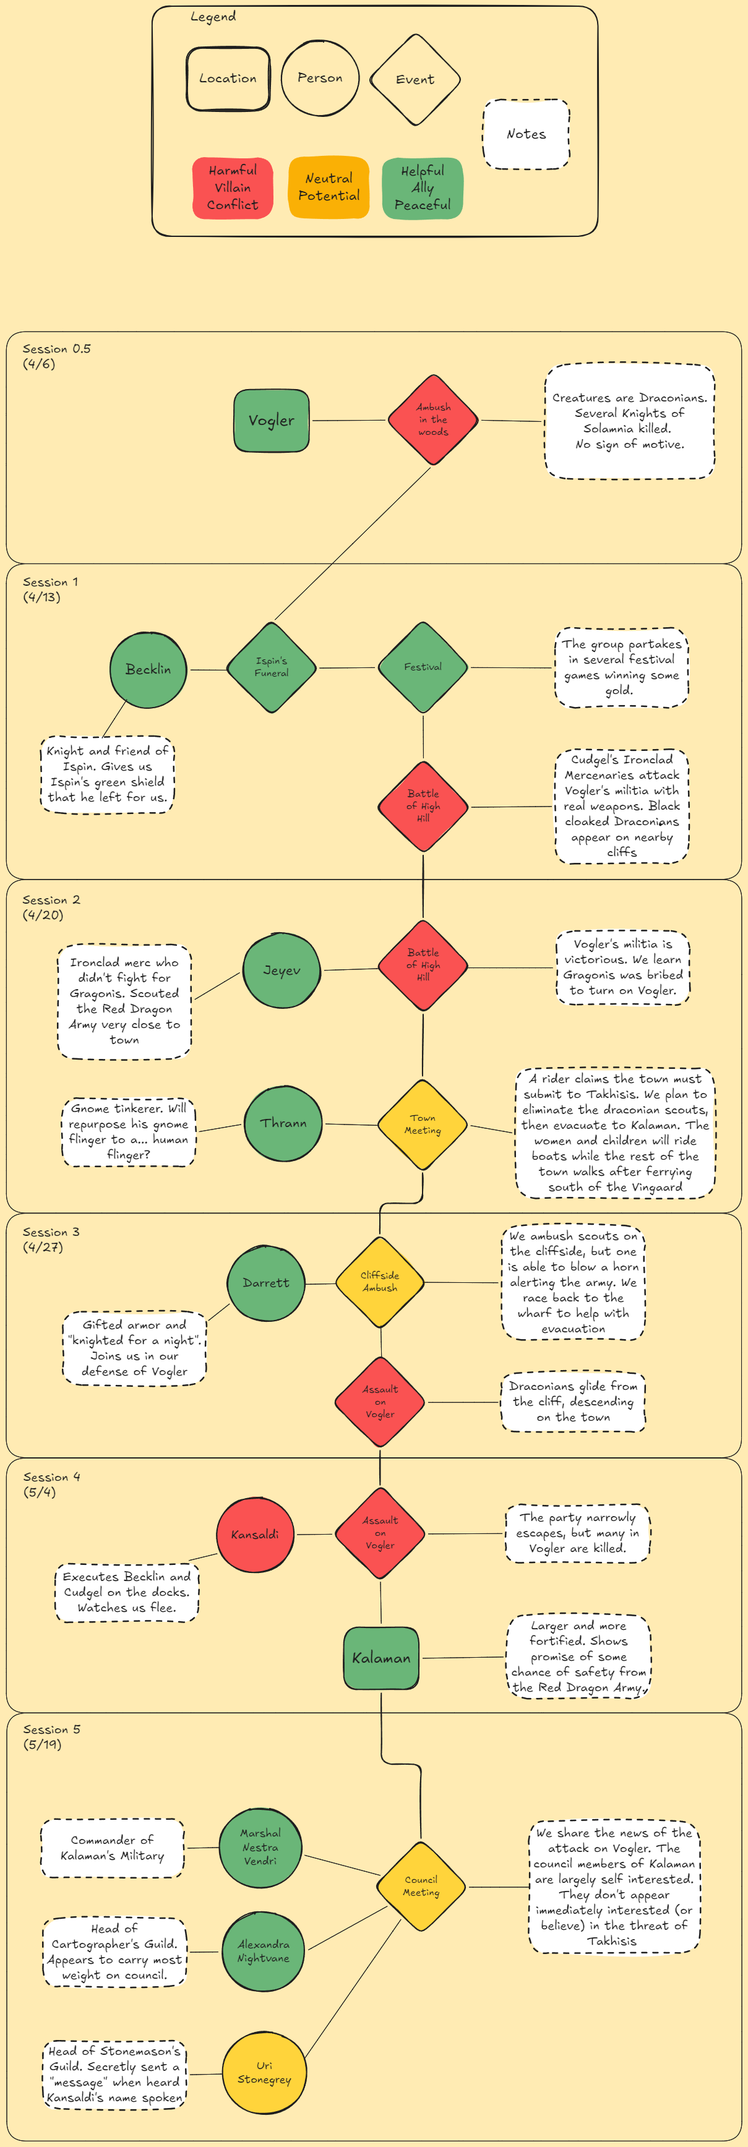
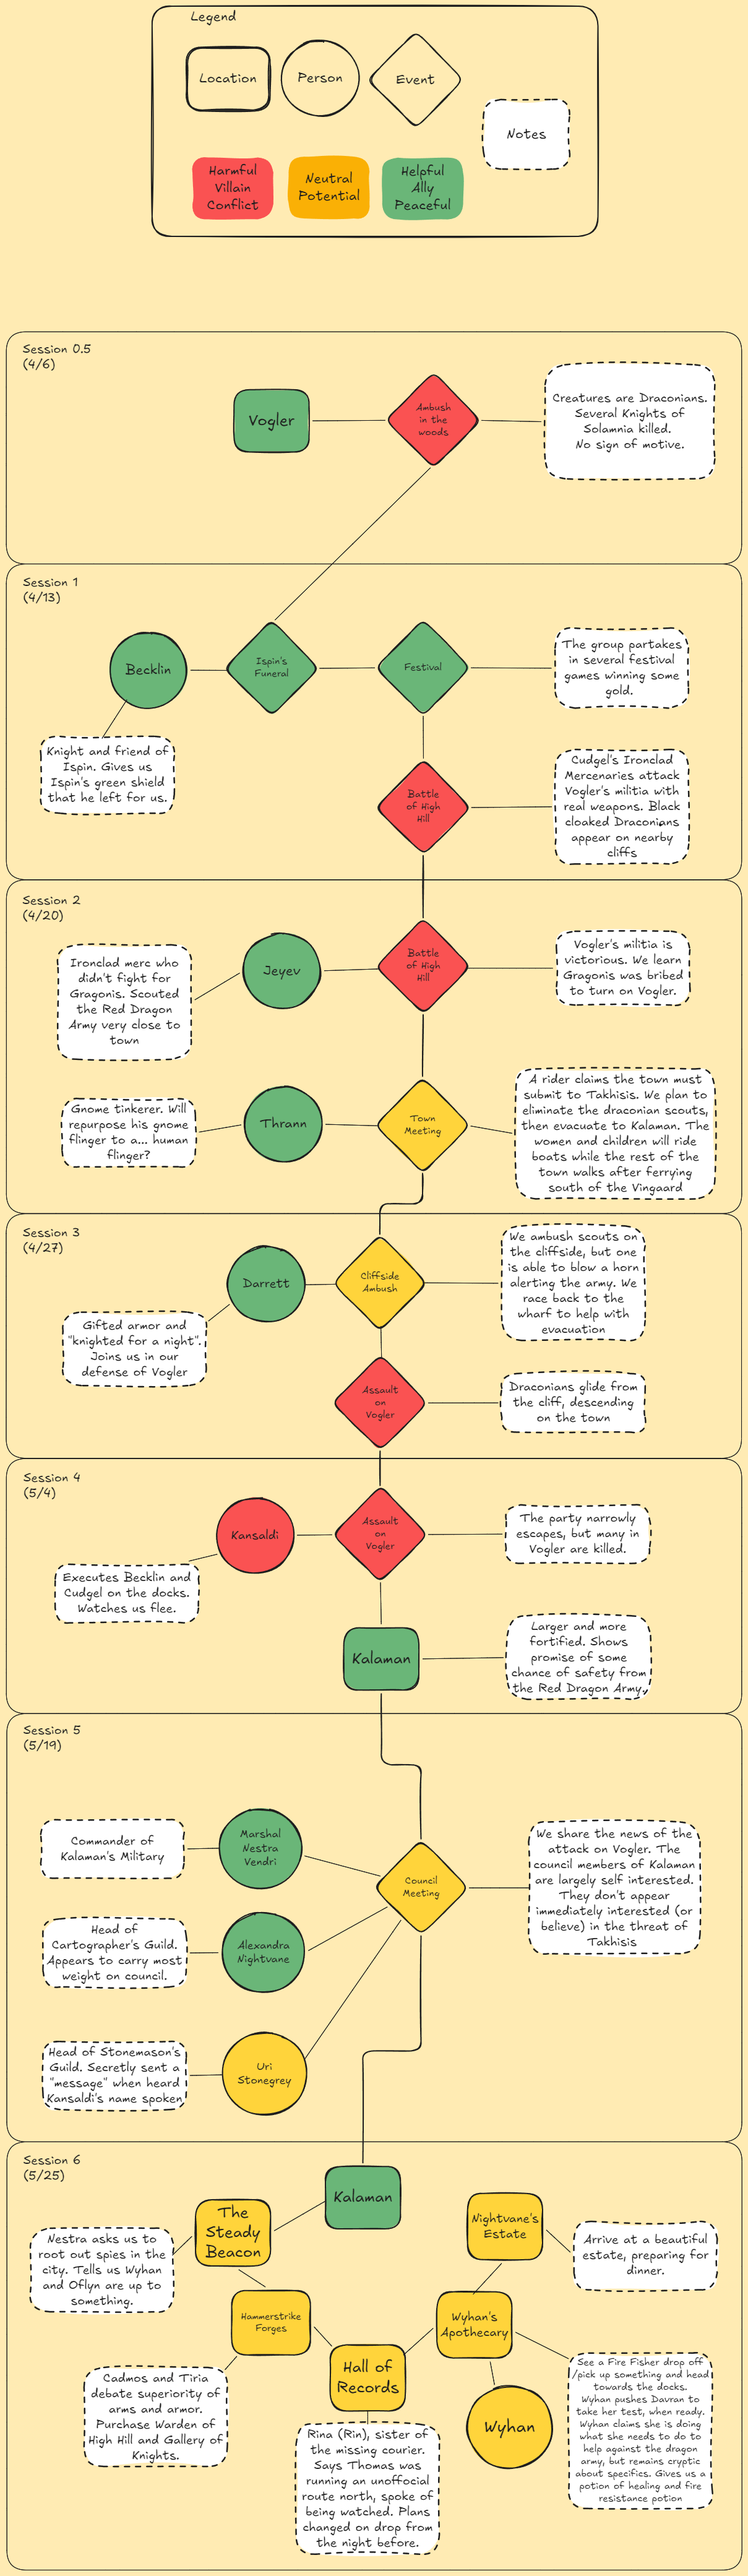
vault backup: 2026-05-27 09:43:11

diff --git a/content/4. Notes/Journeyboard/Journeyboard (RAW, ignore).md b/content/4. Notes/Journeyboard/Journeyboard (RAW, ignore).md
@@ -125,6 +125,35 @@ Head of Cartographer's Guild. Appears to carry most weight on council. ^7k1en7qQ
 
 Head of Stonemason's Guild. Secretly sent a "message" when heard Kansaldi's name spoken ^Fs5LBLnZ
 
+Session 6
+(5/25) ^aBGCOIvX
+
+Kalaman ^scCaot4g
+
+The Steady Beacon ^oXXN2Npm
+
+Hammerstrike
+Forges ^h3MPjLnG
+
+Hall of Records ^AjVEsJZc
+
+Wyhan's Apothecary ^tzHGzVKb
+
+Nightvane's Estate ^QOeF5kXE
+
+Nestra asks us to root out spies in the city. Tells us Wyhan and Oflyn are up to something. ^P7TQakcH
+
+Cadmos and Tiria debate superiority of arms and armor. Purchase Warden of High Hill and Gallery of Knights. ^ZCmxSaIN
+
+Rina (Rin), sister of the missing courier. Says Thomas was running an unoffocial route north, spoke of being watched. Plans changed on drop from the night before. ^RLB2b4JZ
+
+See a Fire Fisher drop off /pick up something and head towards the docks.
+Wyhan pushes Davran to take her test, when ready. Wyhan claims she is doing what she needs to do to help against the dragon army, but remains cryptic about specifics. Gives us a potion of healing and fire resistance potion ^CNcPhP16
+
+Arrive at a beautiful estate, preparing for dinner. ^TClQNZLK
+
+Wyhan ^8rz6LWAt
+
 %%
 ## Drawing
 ```compressed-json
@@ -484,76 +513,172 @@ i9TKzApVNR6iNDhbZwJeTQjRwxnCH1oFaAURa8dBSyWAuC2JMtkVk+D6RtKS67w8mGhMq+mzdMXHNkwr
 
[1 lines of base64/hex data omitted]
 
[2 lines of base64/hex data omitted]
 
[2 lines of base64/hex data omitted]
 
[2 lines of base64/hex data omitted]
 
[2 lines of base64/hex data omitted]
 
[2 lines of base64/hex data omitted]
 
[2 lines of base64/hex data omitted]
 
[2 lines of base64/hex data omitted]
 
[2 lines of base64/hex data omitted]
 
[2 lines of base64/hex data omitted]
 
[2 lines of base64/hex data omitted]
 
[2 lines of base64/hex data omitted]
 
[2 lines of base64/hex data omitted]
 
[2 lines of base64/hex data omitted]
 
[2 lines of base64/hex data omitted]
 
[2 lines of base64/hex data omitted]
 
[2 lines of base64/hex data omitted]
 
[2 lines of base64/hex data omitted]
 
[2 lines of base64/hex data omitted]
 
[2 lines of base64/hex data omitted]
 
[2 lines of base64/hex data omitted]
 
[2 lines of base64/hex data omitted]
 
[2 lines of base64/hex data omitted]
 
[2 lines of base64/hex data omitted]
 
[2 lines of base64/hex data omitted]
 
[2 lines of base64/hex data omitted]
 
[2 lines of base64/hex data omitted]
 
[2 lines of base64/hex data omitted]
 
[2 lines of base64/hex data omitted]
 
[2 lines of base64/hex data omitted]
 
[2 lines of base64/hex data omitted]
 
[2 lines of base64/hex data omitted]
 
[2 lines of base64/hex data omitted]
 
[2 lines of base64/hex data omitted]
 
[2 lines of base64/hex data omitted]
 
[2 lines of base64/hex data omitted]
 
[2 lines of base64/hex data omitted]
+
[1 lines of base64/hex data omitted]
+
[1 lines of base64/hex data omitted]
+
[1 lines of base64/hex data omitted]
+
[1 lines of base64/hex data omitted]
+
[1 lines of base64/hex data omitted]
+
[1 lines of base64/hex data omitted]
+
[1 lines of base64/hex data omitted]
+
[1 lines of base64/hex data omitted]
+
[1 lines of base64/hex data omitted]
+
[1 lines of base64/hex data omitted]
+
[1 lines of base64/hex data omitted]
+
[1 lines of base64/hex data omitted]
+
[1 lines of base64/hex data omitted]
+
[1 lines of base64/hex data omitted]
+
[1 lines of base64/hex data omitted]
+
[1 lines of base64/hex data omitted]
+
[1 lines of base64/hex data omitted]
+
[1 lines of base64/hex data omitted]
+
[1 lines of base64/hex data omitted]
+
[1 lines of base64/hex data omitted]
+
[1 lines of base64/hex data omitted]
+
[1 lines of base64/hex data omitted]
+
[1 lines of base64/hex data omitted]
+
[1 lines of base64/hex data omitted]
+
[1 lines of base64/hex data omitted]
+
[1 lines of base64/hex data omitted]
+
[1 lines of base64/hex data omitted]
+
[1 lines of base64/hex data omitted]
+
[1 lines of base64/hex data omitted]
+
[1 lines of base64/hex data omitted]
+
[1 lines of base64/hex data omitted]
+
[1 lines of base64/hex data omitted]
+
[1 lines of base64/hex data omitted]
+
[1 lines of base64/hex data omitted]
+
[1 lines of base64/hex data omitted]
+
[1 lines of base64/hex data omitted]
+
[1 lines of base64/hex data omitted]
+
[1 lines of base64/hex data omitted]
+
[1 lines of base64/hex data omitted]
+
[1 lines of base64/hex data omitted]
+
[1 lines of base64/hex data omitted]
+
[1 lines of base64/hex data omitted]
+
[1 lines of base64/hex data omitted]
+
[1 lines of base64/hex data omitted]
+
[1 lines of base64/hex data omitted]
+
[1 lines of base64/hex data omitted]
+
[1 lines of base64/hex data omitted]
+
[1 lines of base64/hex data omitted]
 ```
 %%

diff --git a/content/4. Notes/Session Notes/Session 6 (5-25).md b/content/4. Notes/Session Notes/Session 6 (5-25).md
@@ -22,7 +22,7 @@
 - Back at the castle, we receive a wax pressed letter from Nightvane, an invitation for dinner at night.
 - 
 #### Hammerstrike Forges
-- Cadmos Hammerstrike - specializes in Armor, Tyra Hammerstrike - specializes in weapons
+- Cadmos Hammerstrike - specializes in Armor, Tiria Hammerstrike - specializes in weapons
 	- They fiercely debate each other's superiority (armor vs weapon)
 	- Whoever could find the [[Amulet of Reorx]] could settle this debate
 - Significant stuff
